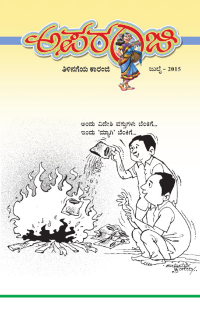
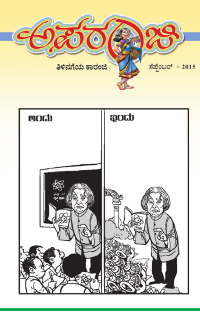
Commit No. 35 Sep issue updated, cover and theme images changed

diff --git a/index.php b/index.php
@@ -84,7 +84,7 @@ session_start();
 			echo "		  </div>
 				</div>";
 				
-			echo "<div class=\"cover\"><a href=\"Volumes/".$currentyear."_".$currentmonth.".pdf#page=1\" target=\"_blank\"><img src=\"php/images/cover.png\" alt=\"".$month[$currentmonth-1]."\" title=\"".$month[$currentmonth-1]." ಸಂಚಿಕೆ\"/></a></div>";
+			echo "<div class=\"cover\"><a href=\"Volumes/".$currentyear."_".$currentmonth.".pdf#page=1\" target=\"_blank\"><img src=\"php/images/cover1.png\" alt=\"".$month[$currentmonth-1]."\" title=\"".$month[$currentmonth-1]." ಸಂಚಿಕೆ\"/></a></div>";
 		?>
 			
 		

diff --git a/php/connect_db.php b/php/connect_db.php
@@ -4,7 +4,7 @@
 	$pwd="mysql";
 	$db="apr";
 	$volume='32';
-	$issue='11';
+	$issue='12';
 	
 	$db_con=mysql_connect("$host","$usr","$pwd");
 	mysql_select_db("$db",$db_con);
